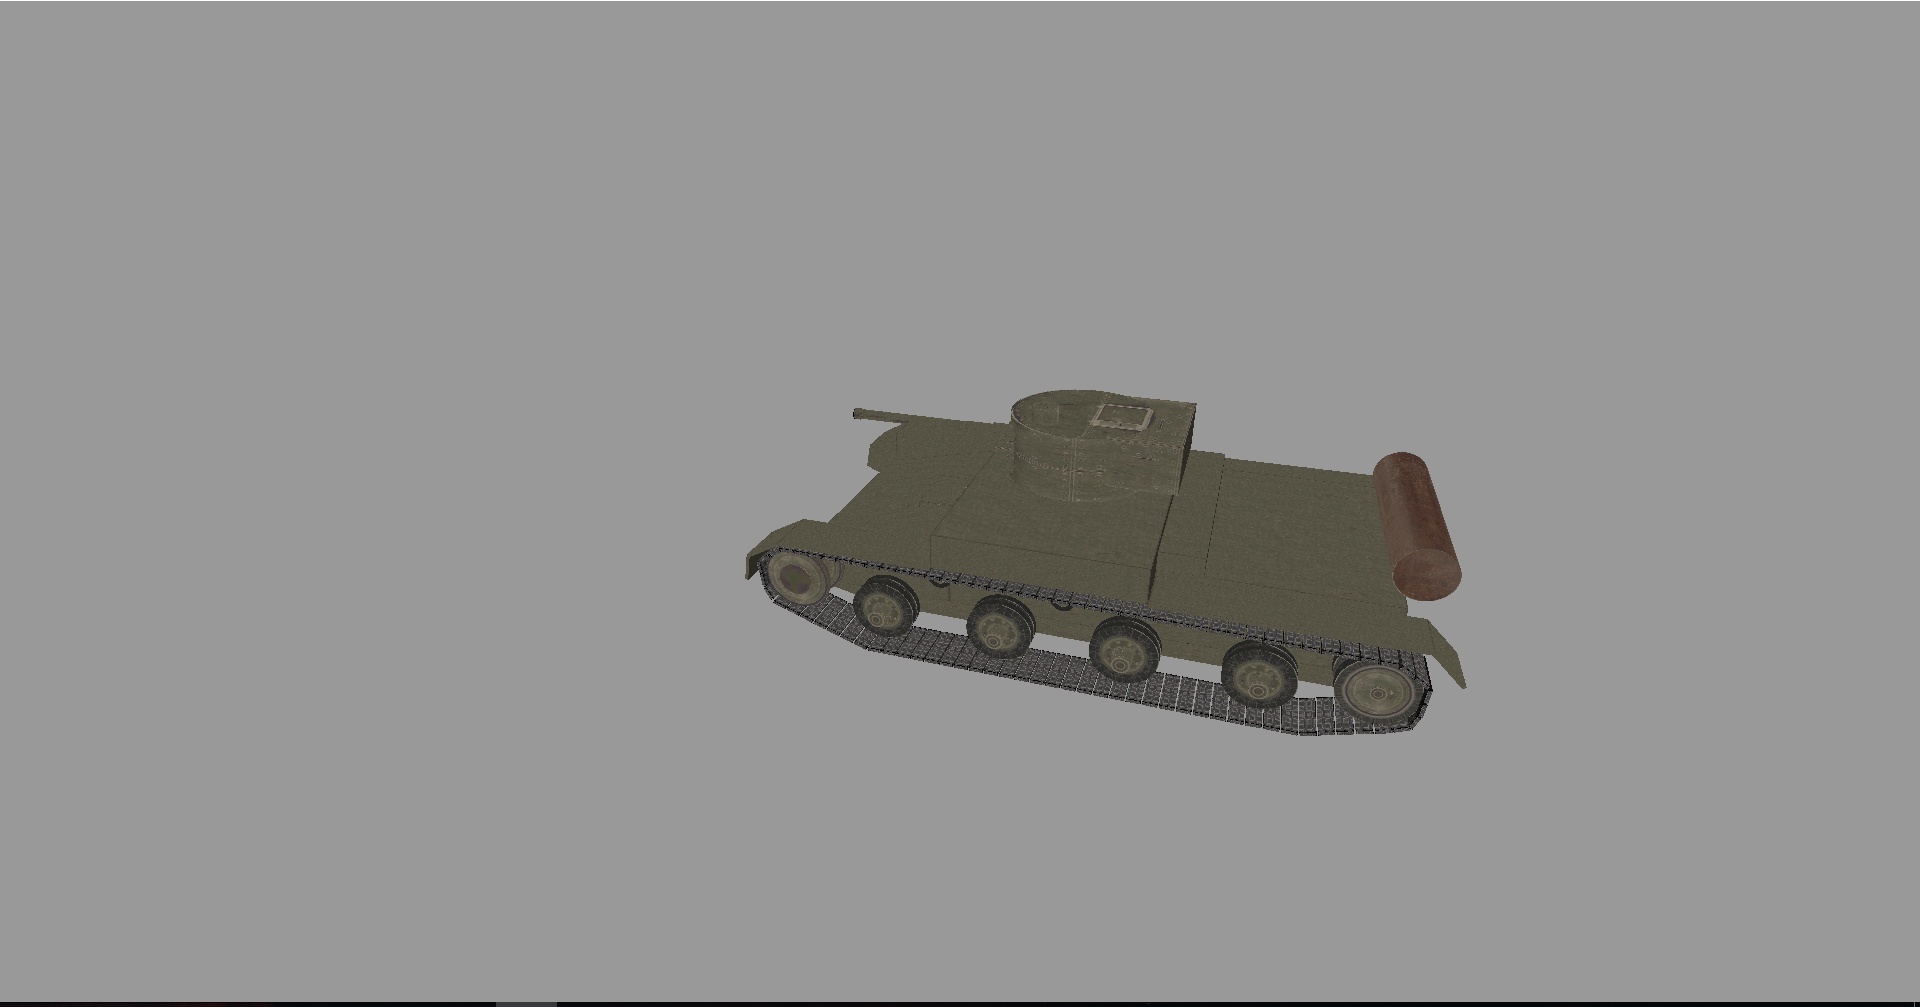
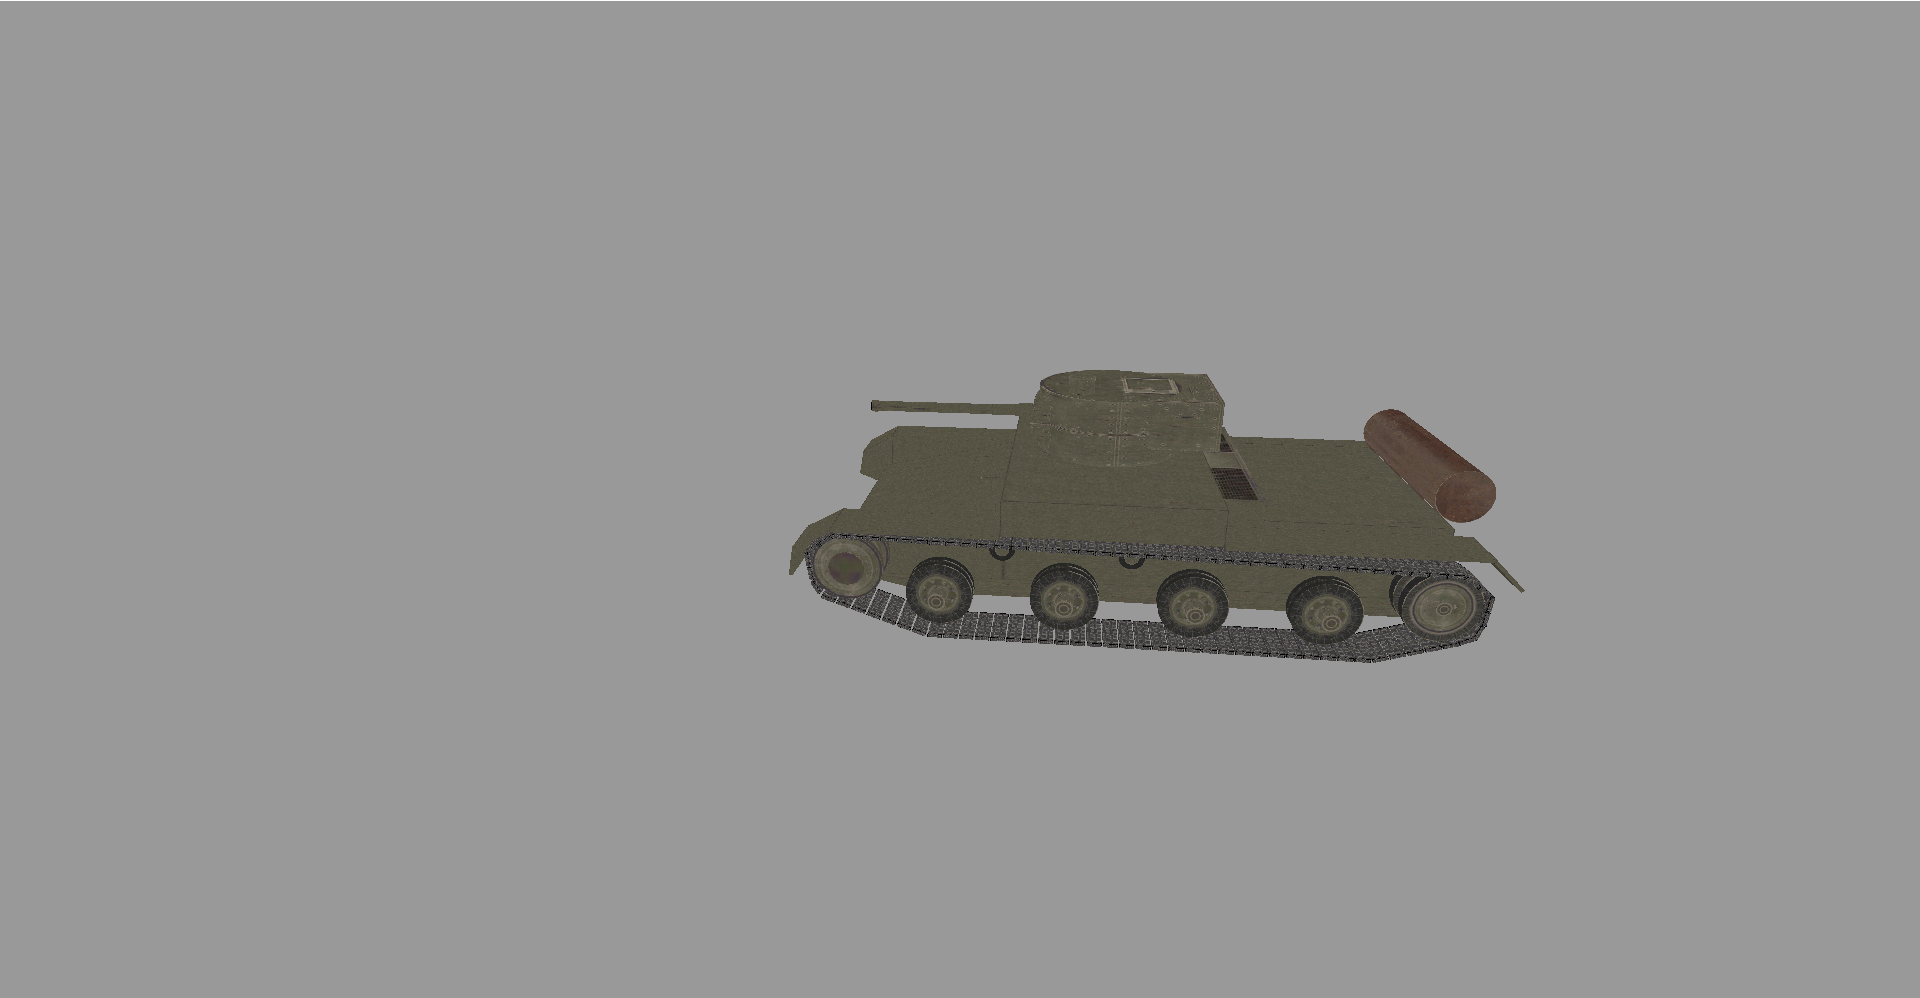
update screenshots and change camera

Changed region(s): [[0.375, 0.3727, 0.7812, 0.7455], [0.0, 0.994, 1.0, 1.0], [0.4375, 0.4038, 0.5312, 0.4349]]

diff --git a/TankGL/TankGL_Form.cs b/TankGL/TankGL_Form.cs
@@ -94,7 +94,9 @@ namespace TankGL
             gl.LoadIdentity();
 
             gl.Rotate(rotation, 0.0f, 1.0f, 0.0f);
-
+            //gl.Rotate(90.0, 0.0f, 1.0f, 0.0f);  // front elevation
+            //gl.Rotate(-90.0, 0.0f, 1.0f, 0.0f); // back elevation
+            //gl.Rotate(-90, 1.0f, 0.0f, 0.0f);  // bottom elevation
             var tank = new DrawTank();
             tank.DrawAllParts(gl);
 
@@ -110,7 +112,7 @@ namespace TankGL
 
             gl.LoadIdentity();
             gl.Perspective(60.0f, (double)Width / (double)Height, 0.01, 100.0);
-            gl.LookAt(0, 1.5, 3, 0, 1, 0, 0, 1, 0);
+            gl.LookAt(0.75, 1.2, 2.2, 0, 0, 0, 0, 1, 0);
 
             gl.MatrixMode(OpenGL.GL_MODELVIEW);
         }
